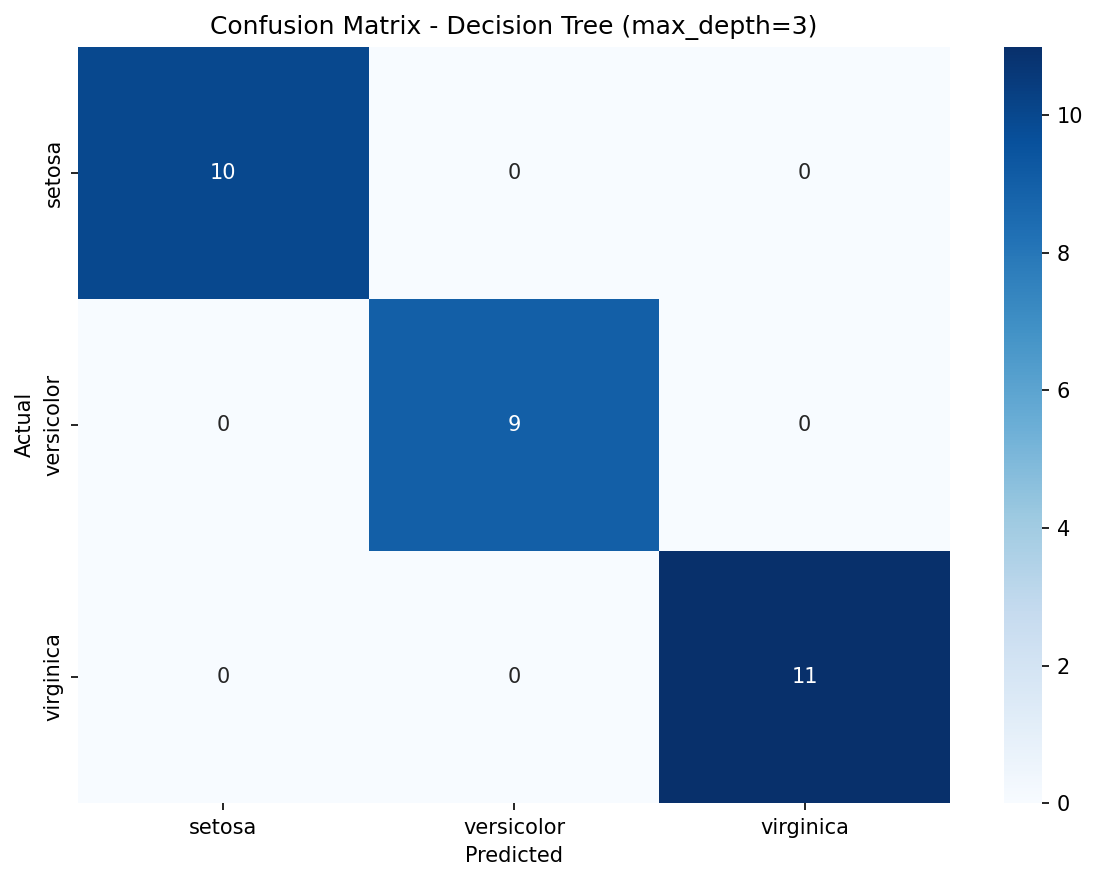
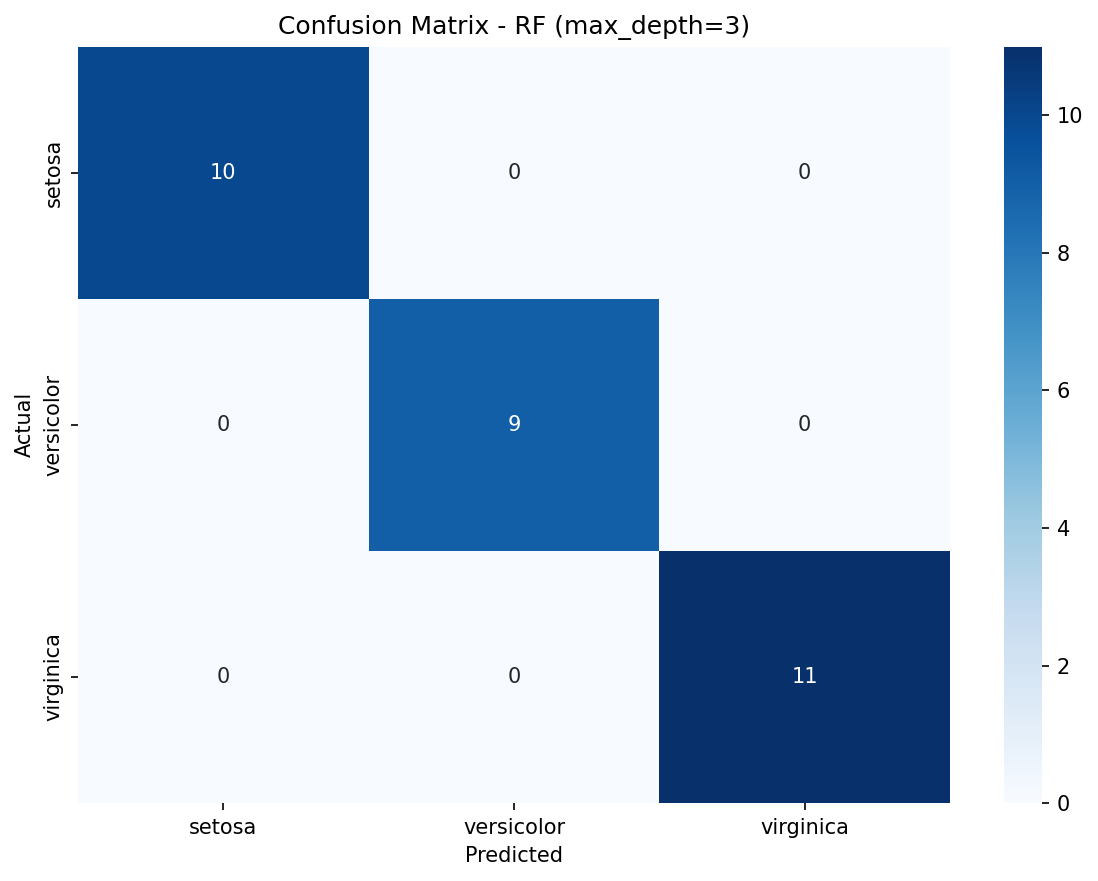
Adding Random Forest

Changed region(s): [[0.1858, 0.0, 0.7432, 0.0613]]

diff --git a/iris-rf.py b/iris-rf.py
@@ -1,0 +1,124 @@
+import mlflow
+import mlflow.sklearn
+from sklearn.datasets import load_iris
+from sklearn.tree import DecisionTreeClassifier
+from sklearn.ensemble import RandomForestClassifier
+from sklearn.model_selection import train_test_split
+from sklearn.metrics import accuracy_score, confusion_matrix, classification_report, precision_score, recall_score, f1_score
+import matplotlib.pyplot as plt
+import seaborn as sns
+import dagshub
+import numpy as np
+
+# Initialize DagsHub
+dagshub.init(repo_owner='Abhimanyu9539', repo_name='ml-flow-dagshub-demo', mlflow=True)
+
+mlflow.set_tracking_uri("https://dagshub.com/Abhimanyu9539/ml-flow-dagshub-demo.mlflow")
+
+# Load the iris dataset
+iris = load_iris()
+X = iris.data
+y = iris.target
+
+# Split the dataset into training and testing sets
+X_train, X_test, y_train, y_test = train_test_split(X, y, test_size=0.2, random_state=42)
+
+# Define the parameters for the Decision Tree model
+max_depth = 3  # Increased from 1 for better performance
+random_state = 42
+n_estimators = 10
+
+# Set MLflow experiment
+mlflow.set_experiment('iris-rf')
+
+with mlflow.start_run():
+    
+    # Create and train the model
+    rf = RandomForestClassifier(max_depth=max_depth, random_state=random_state,n_estimators=n_estimators)
+    rf.fit(X_train, y_train)
+    
+    # Make predictions
+    y_pred = rf.predict(X_test)
+    
+    # Calculate metrics
+    accuracy = accuracy_score(y_test, y_pred)
+    precision = precision_score(y_test, y_pred, average='weighted')
+    recall = recall_score(y_test, y_pred, average='weighted')
+    f1 = f1_score(y_test, y_pred, average='weighted')
+    
+    # Log parameters
+    mlflow.log_param('max_depth', max_depth)
+    mlflow.log_param('random_state', random_state)
+    mlflow.log_param('test_size', 0.2)
+    mlflow.log_param('dataset_size', len(X))
+    
+    # Log metrics
+    mlflow.log_metric('accuracy', accuracy)
+    mlflow.log_metric('precision', precision)
+    mlflow.log_metric('recall', recall)
+    mlflow.log_metric('f1_score', f1)
+    
+    # Create confusion matrix plot
+    cm = confusion_matrix(y_test, y_pred)
+    plt.figure(figsize=(8, 6))
+    sns.heatmap(cm, annot=True, fmt='d', cmap='Blues', 
+                xticklabels=iris.target_names, 
+                yticklabels=iris.target_names)
+    plt.ylabel('Actual')
+    plt.xlabel('Predicted')
+    plt.title(f'Confusion Matrix - RF (max_depth={max_depth})')
+    plt.tight_layout()
+    
+    # Save and log the confusion matrix
+    plt.savefig("confusion_matrix.png", dpi=150, bbox_inches='tight')
+    mlflow.log_artifact("confusion_matrix.png")
+    plt.close()  # Close the plot to free memory
+    
+    # Create feature importance plot
+    feature_importance = rf.feature_importances_
+    plt.figure(figsize=(10, 6))
+    plt.barh(iris.feature_names, feature_importance)
+    plt.xlabel('Feature Importance')
+    plt.title('Feature Importance - Random Forest')
+    plt.tight_layout()
+    
+    # Save and log feature importance plot
+    plt.savefig("feature_importance.png", dpi=150, bbox_inches='tight')
+    mlflow.log_artifact("feature_importance.png")
+    plt.close()
+    
+    # Log classification report as text
+    class_report = classification_report(y_test, y_pred, target_names=iris.target_names)
+    with open("classification_report.txt", "w") as f:
+        f.write(class_report)
+    mlflow.log_artifact("classification_report.txt")
+    
+    # Log the source code
+    try:
+        mlflow.log_artifact(__file__)
+    except NameError:
+        # Handle case when running in Jupyter notebook
+        print("Note: Running in notebook environment, source code not logged")
+    
+    # Log the model
+    mlflow.sklearn.log_model(
+        rf, 
+        artifact_path="model",
+        registered_model_name="iris_random_forest"
+    )
+    
+    # Set tags
+    mlflow.set_tag('author', 'Abhimanyu')
+    mlflow.set_tag('model', 'Random Forest')
+    mlflow.set_tag('dataset', 'iris')
+    mlflow.set_tag('algorithm', 'RandomForestClassifier')
+    
+    # Print results
+    print(f'Accuracy: {accuracy:.4f}')
+    print(f'Precision: {precision:.4f}')
+    print(f'Recall: {recall:.4f}')
+    print(f'F1-Score: {f1:.4f}')
+    print(f'Max Depth: {max_depth}')
+    
+    print("\nClassification Report:")
+    print(class_report)
